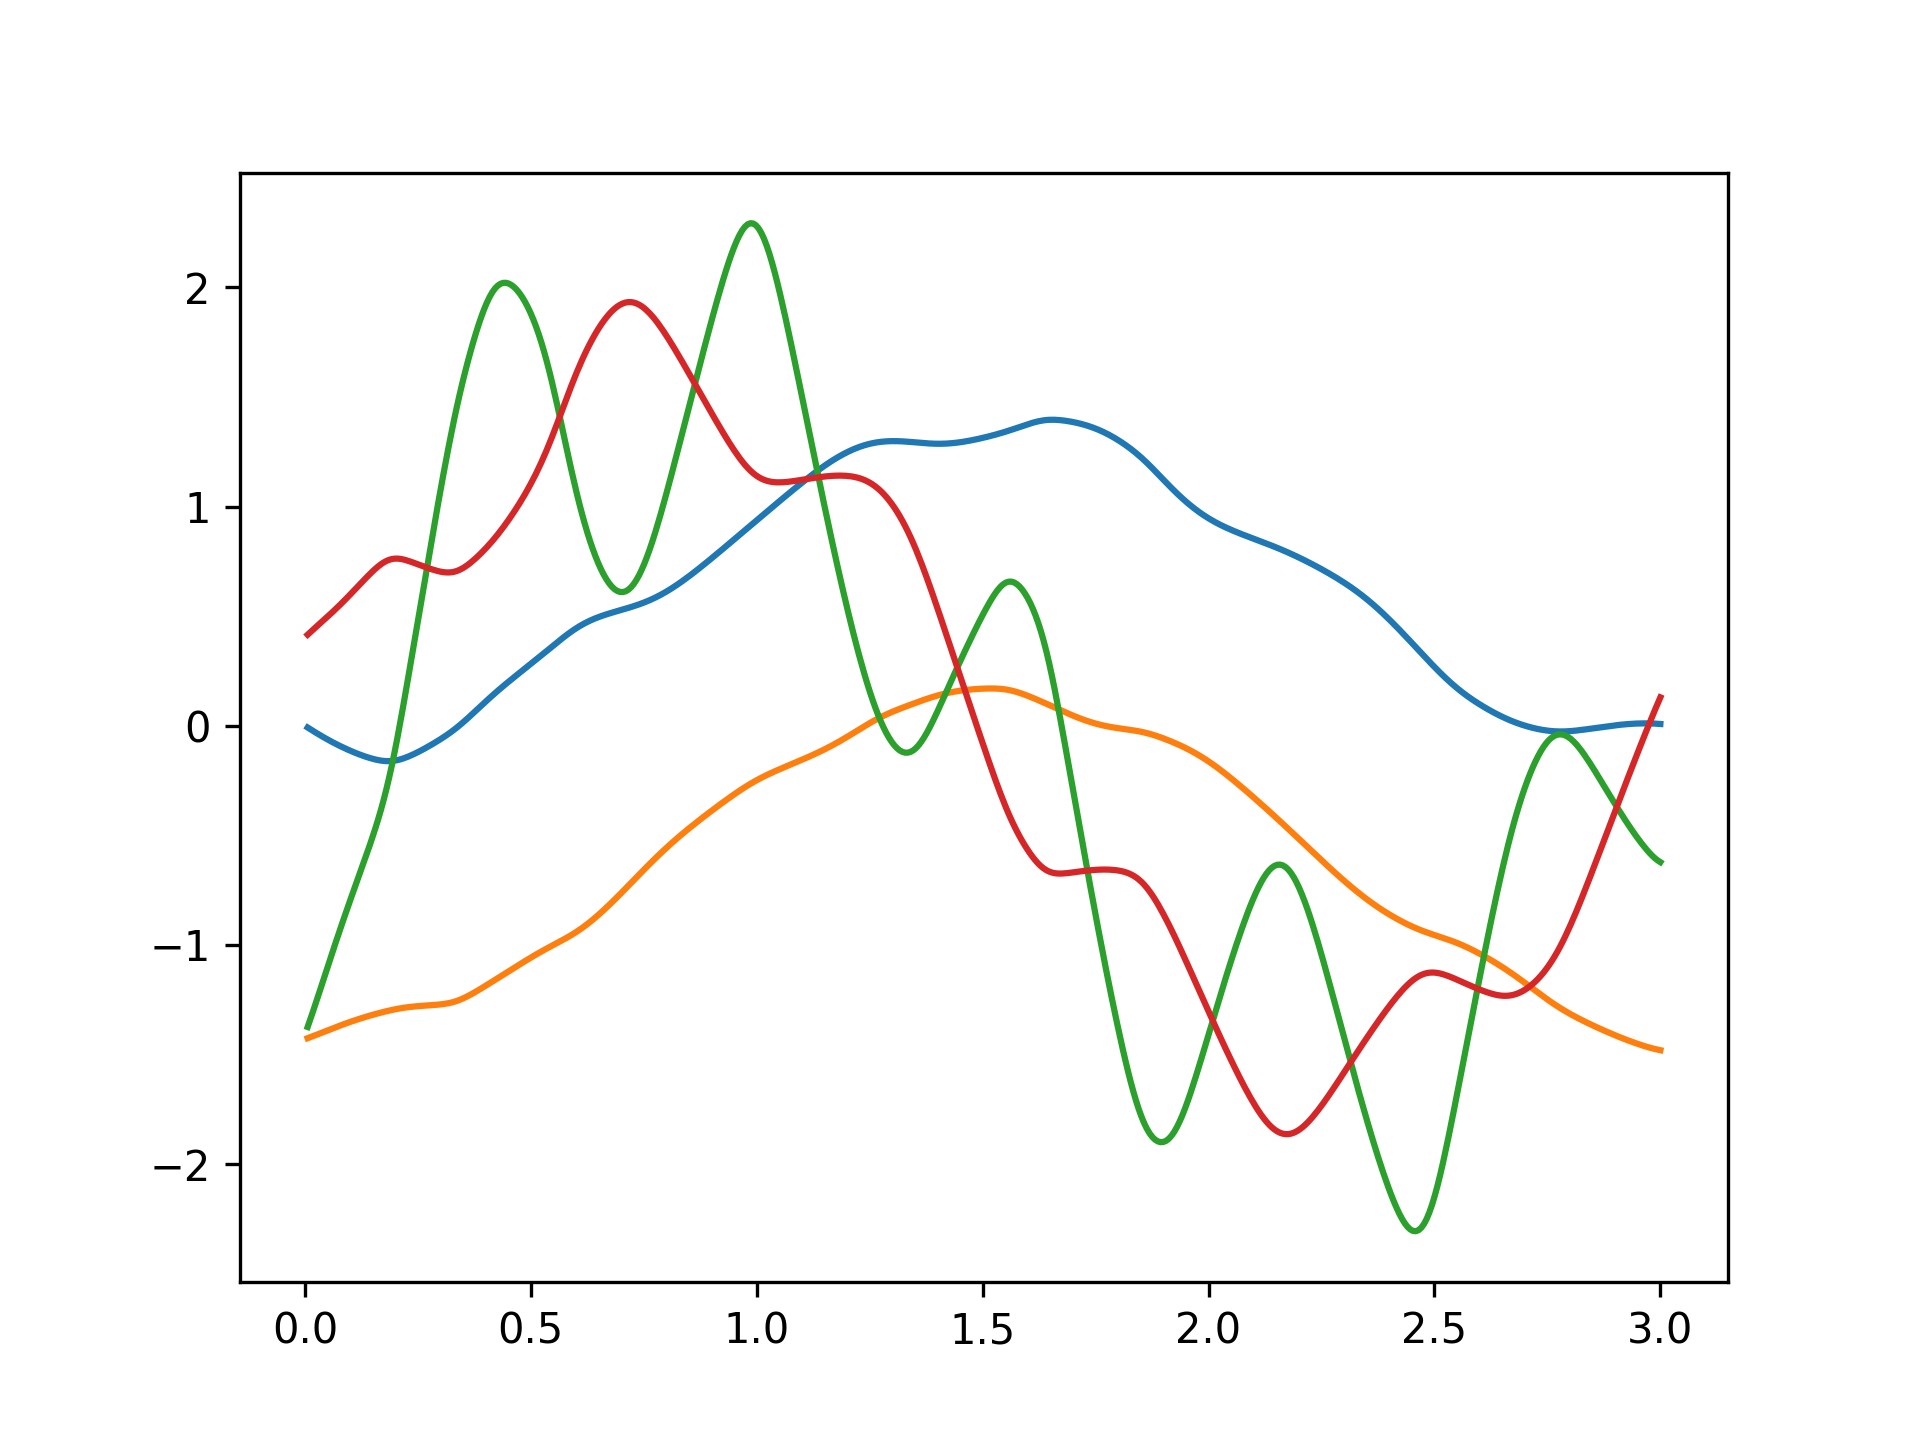
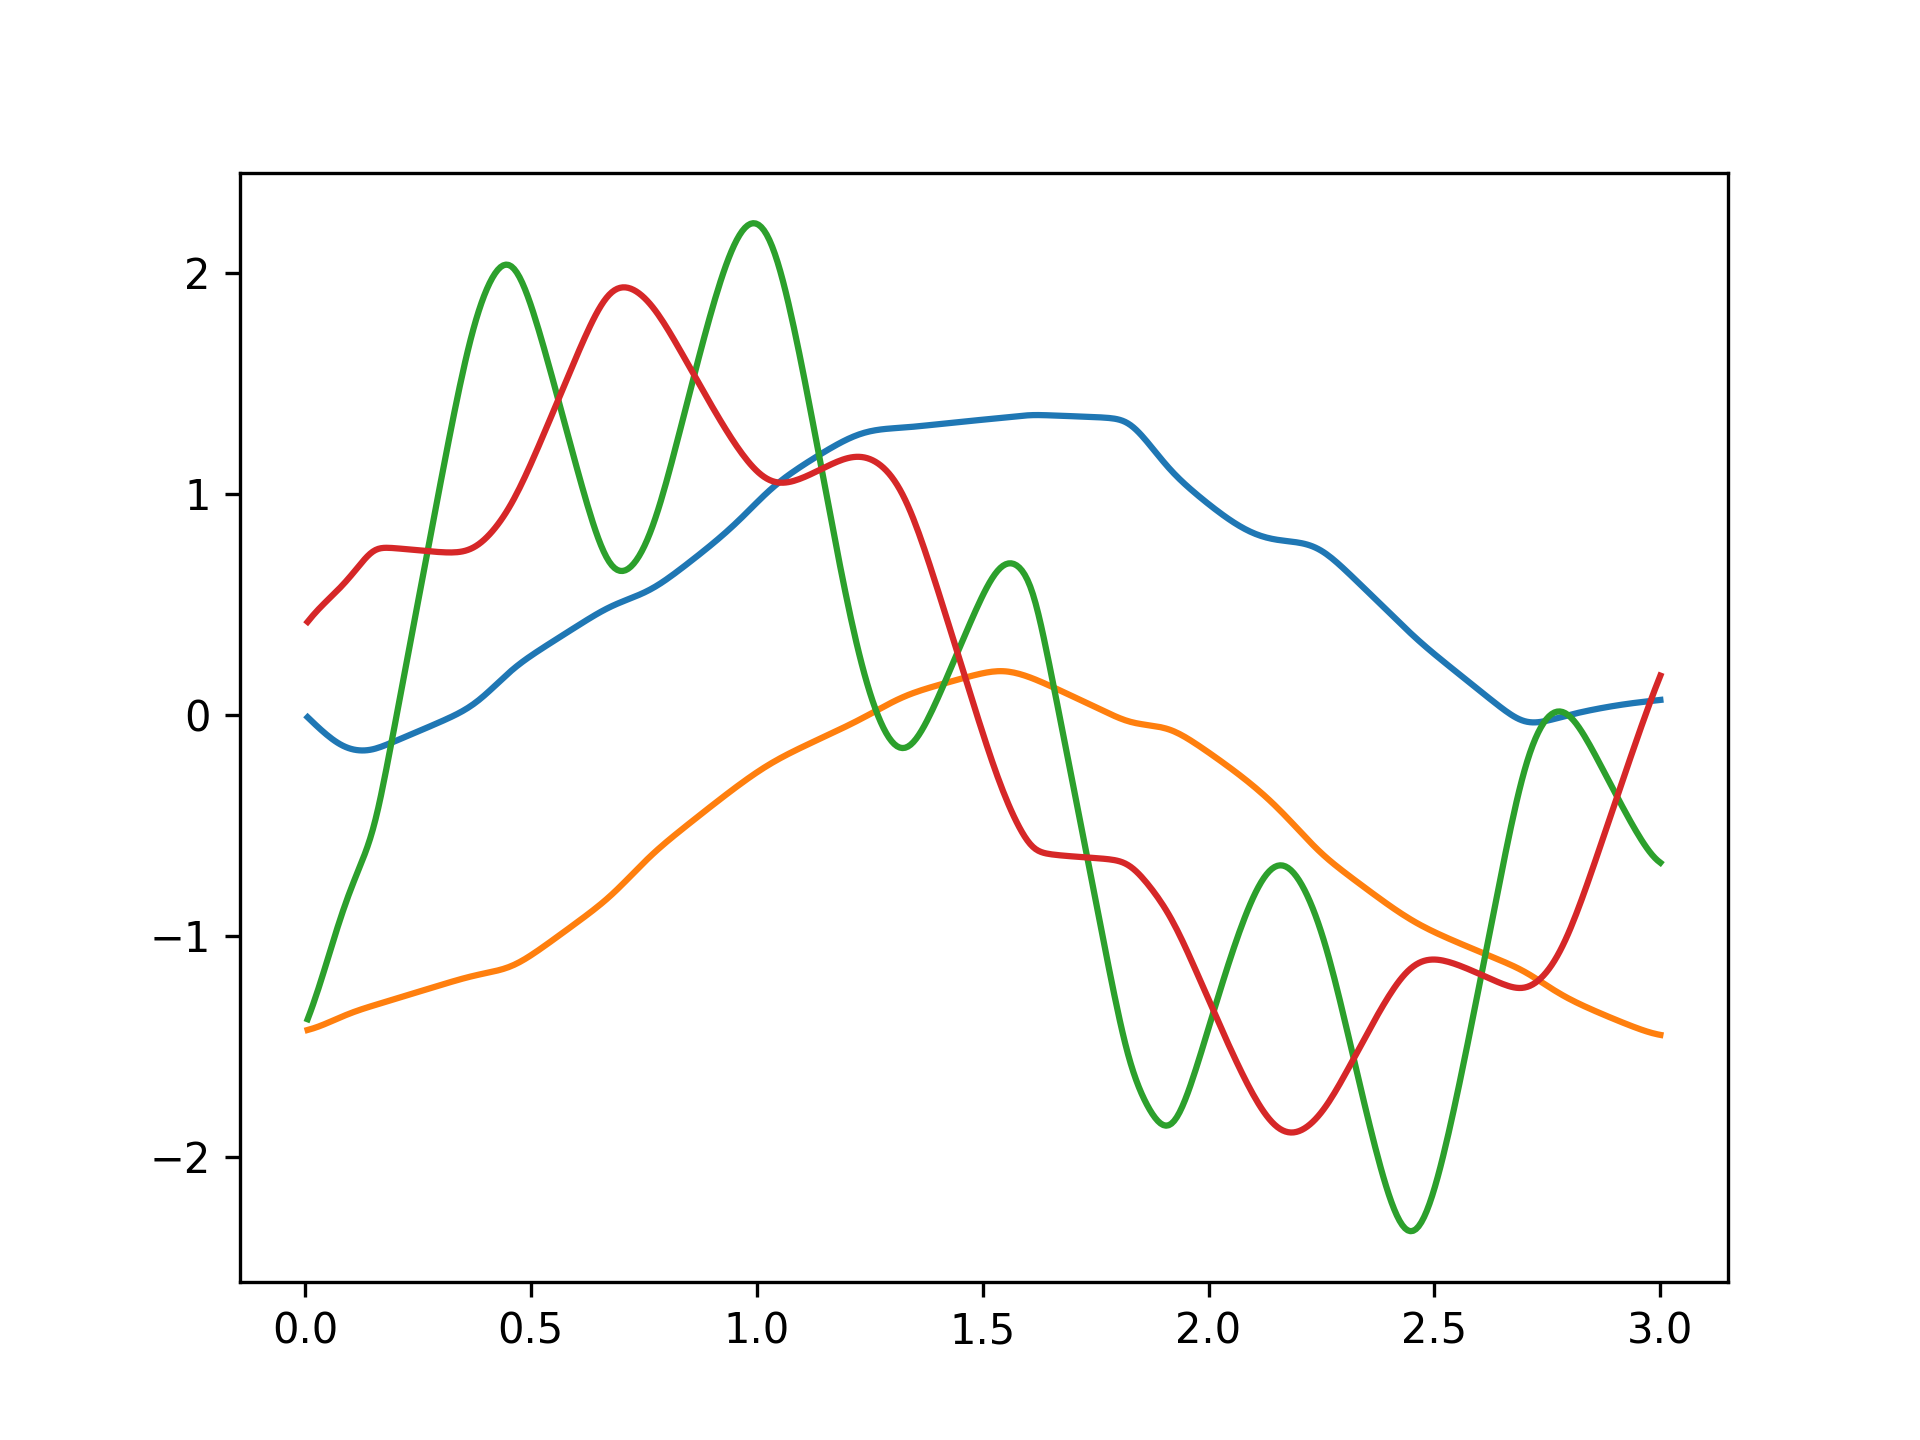
experiments data

diff --git a/experiments/realdata/main.py b/experiments/realdata/main.py
@@ -76,7 +76,7 @@ if __name__ == "__main__":
     y0 = xs[0]
     t1 = ts[-1]
     dt0 = ts[1] - ts[0]
-    solver = dfx.MidpointSimple()
+    solver = dfx.Euler()
 
     ts, ys_pred = train(
         vf,
@@ -87,7 +87,7 @@ if __name__ == "__main__":
         adjoint,
         solver,
         args=None,
-        ode_model_name="double_linear_midpoint",
+        ode_model_name="double_linear_euler",
         steps=10000,
     )
 
